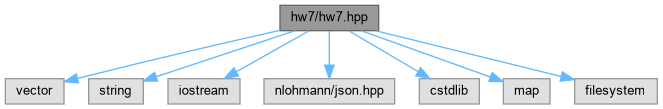
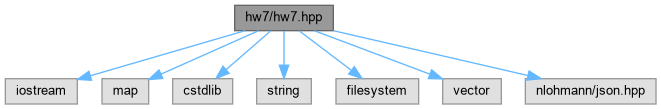
Test combined header.

Changed region(s): [[0.0, 0.0275, 0.9985, 0.9633], [0.4236, 0.578, 0.4539, 0.7156]]

diff --git a/docs/html/peroxide_8cpp.html b/docs/html/peroxide_8cpp.html
@@ -87,62 +87,62 @@ Include dependency graph for peroxide.cpp:</div>
 <div class="dyncontent">
 <div class="center"><img src="peroxide_8cpp__incl.png" border="0" usemap="#aapps_2peroxide_8cpp" alt=""/></div>
 <map name="aapps_2peroxide_8cpp" id="aapps_2peroxide_8cpp">
-<area shape="rect" title=" " alt="" coords="622,5,750,31"/>
-<area shape="rect" href="sysinc_8hpp.html" title=" " alt="" coords="1086,79,1171,104"/>
-<area shape="poly" title=" " alt="" coords="751,27,1072,78,1072,84,750,32"/>
-<area shape="rect" href="hw7_8hpp.html" title=" " alt="" coords="301,79,372,104"/>
+<area shape="rect" title=" " alt="" coords="621,5,749,31"/>
+<area shape="rect" href="sysinc_8hpp.html" title=" " alt="" coords="1085,79,1171,104"/>
+<area shape="poly" title=" " alt="" coords="750,27,1072,78,1071,84,749,32"/>
+<area shape="rect" href="hw7_8hpp.html" title=" " alt="" coords="301,79,371,104"/>
 <area shape="poly" title=" " alt="" coords="630,33,386,83,385,77,629,28"/>
-<area shape="rect" title=" " alt="" coords="160,159,220,185"/>
-<area shape="poly" title=" " alt="" coords="1086,96,910,101,663,112,414,129,311,141,233,155,226,157,224,152,232,149,310,135,413,124,663,106,910,96,1086,91"/>
-<area shape="rect" title=" " alt="" coords="1879,159,1947,185"/>
-<area shape="poly" title=" " alt="" coords="1172,92,1521,111,1722,128,1805,138,1868,149,1877,152,1875,157,1867,155,1804,143,1721,133,1520,116,1171,97"/>
-<area shape="rect" title=" " alt="" coords="1971,159,2046,185"/>
-<area shape="poly" title=" " alt="" coords="1172,91,1564,110,1793,127,1888,137,1960,149,1970,152,1969,157,1959,155,1887,143,1792,132,1563,115,1171,97"/>
-<area shape="rect" title=" " alt="" coords="2070,159,2131,185"/>
-<area shape="poly" title=" " alt="" coords="1172,91,1353,95,1610,106,1870,123,1978,135,2059,149,2067,152,2065,157,2057,155,1977,140,1869,128,1610,111,1353,101,1172,96"/>
-<area shape="rect" title=" " alt="" coords="245,159,327,185"/>
-<area shape="poly" title=" " alt="" coords="1086,95,958,95,773,102,558,120,447,135,340,155,328,158,326,152,339,149,447,130,557,115,773,97,958,90,1086,89"/>
-<area shape="rect" title=" " alt="" coords="2155,159,2222,185"/>
-<area shape="poly" title=" " alt="" coords="1171,91,1368,95,1649,105,1935,122,2054,135,2144,149,2153,152,2152,157,2143,155,2054,140,1935,128,1649,110,1367,100,1171,96"/>
-<area shape="rect" title=" " alt="" coords="2246,159,2313,185"/>
-<area shape="poly" title=" " alt="" coords="1172,90,1383,94,1692,103,2005,121,2136,133,2235,149,2244,152,2242,157,2233,155,2136,139,2005,126,1691,108,1383,99,1172,96"/>
+<area shape="rect" title=" " alt="" coords="159,159,219,185"/>
+<area shape="poly" title=" " alt="" coords="1085,96,909,101,662,112,413,129,310,141,233,155,225,157,223,152,231,149,309,135,413,124,662,106,909,96,1085,91"/>
+<area shape="rect" title=" " alt="" coords="1878,159,1946,185"/>
+<area shape="poly" title=" " alt="" coords="1171,92,1520,111,1721,128,1804,138,1867,149,1876,152,1875,157,1866,155,1804,143,1720,133,1520,116,1171,97"/>
+<area shape="rect" title=" " alt="" coords="1971,159,2045,185"/>
+<area shape="poly" title=" " alt="" coords="1171,91,1563,110,1792,127,1887,137,1959,149,1970,152,1968,157,1958,155,1887,143,1792,132,1563,115,1171,97"/>
+<area shape="rect" title=" " alt="" coords="2069,159,2131,185"/>
+<area shape="poly" title=" " alt="" coords="1171,91,1353,95,1610,106,1869,123,1977,135,2058,149,2066,152,2064,157,2057,155,1976,140,1869,128,1609,111,1352,101,1171,96"/>
+<area shape="rect" title=" " alt="" coords="244,159,327,185"/>
+<area shape="poly" title=" " alt="" coords="1085,95,957,95,772,102,557,120,447,135,339,155,327,158,326,152,338,149,446,130,556,115,772,97,957,90,1085,89"/>
+<area shape="rect" title=" " alt="" coords="2155,159,2221,185"/>
+<area shape="poly" title=" " alt="" coords="1171,91,1367,95,1649,105,1935,122,2054,135,2143,149,2152,152,2151,157,2142,155,2053,140,1934,128,1649,110,1367,100,1171,96"/>
+<area shape="rect" title=" " alt="" coords="2245,159,2312,185"/>
+<area shape="poly" title=" " alt="" coords="1171,90,1383,94,1691,103,2005,121,2136,133,2234,149,2243,152,2242,157,2233,155,2135,139,2004,126,1691,108,1382,99,1171,96"/>
 <area shape="rect" title=" " alt="" coords="351,159,423,185"/>
-<area shape="poly" title=" " alt="" coords="1086,95,972,96,811,104,625,122,530,136,437,155,427,157,426,152,436,149,529,131,624,117,810,99,972,91,1086,90"/>
-<area shape="rect" title=" " alt="" coords="682,159,751,185"/>
-<area shape="poly" title=" " alt="" coords="1086,99,942,118,854,134,765,155,757,157,755,152,764,149,853,129,941,113,1085,94"/>
-<area shape="rect" title=" " alt="" coords="776,159,831,185"/>
-<area shape="poly" title=" " alt="" coords="1086,101,975,120,909,136,844,155,839,157,837,152,843,149,908,130,974,115,1085,96"/>
-<area shape="rect" title=" " alt="" coords="855,159,925,185"/>
-<area shape="poly" title=" " alt="" coords="1090,107,939,155,932,157,930,152,937,149,1089,101"/>
-<area shape="rect" title=" " alt="" coords="949,159,1028,185"/>
-<area shape="poly" title=" " alt="" coords="1109,107,1023,155,1020,150,1107,102"/>
-<area shape="rect" title=" " alt="" coords="448,159,503,185"/>
-<area shape="poly" title=" " alt="" coords="1086,95,983,96,841,103,678,121,596,136,516,155,510,156,509,151,515,149,595,130,678,116,840,98,983,90,1086,89"/>
-<area shape="rect" title=" " alt="" coords="1052,159,1120,185"/>
-<area shape="poly" title=" " alt="" coords="1125,105,1101,149,1096,146,1120,103"/>
-<area shape="rect" title=" " alt="" coords="1145,159,1198,185"/>
-<area shape="poly" title=" " alt="" coords="1137,103,1161,146,1156,149,1133,105"/>
-<area shape="rect" title=" " alt="" coords="527,159,658,185"/>
-<area shape="poly" title=" " alt="" coords="1086,99,904,119,670,155,650,159,649,154,670,149,904,114,1085,94"/>
-<area shape="rect" title=" " alt="" coords="1222,159,1305,185"/>
-<area shape="poly" title=" " alt="" coords="1150,102,1233,150,1230,155,1147,106"/>
-<area shape="rect" title=" " alt="" coords="1329,159,1443,185"/>
-<area shape="poly" title=" " alt="" coords="1167,101,1336,153,1334,158,1165,107"/>
-<area shape="rect" title=" " alt="" coords="1467,152,1601,192"/>
-<area shape="poly" title=" " alt="" coords="1172,97,1454,149,1453,154,1171,102"/>
-<area shape="rect" title=" " alt="" coords="1626,152,1757,192"/>
-<area shape="poly" title=" " alt="" coords="1172,94,1360,113,1484,129,1613,149,1612,155,1483,134,1359,118,1171,99"/>
-<area shape="rect" title=" " alt="" coords="1781,159,1855,185"/>
-<area shape="poly" title=" " alt="" coords="1172,90,1278,93,1427,101,1597,119,1684,132,1769,149,1780,152,1778,157,1768,155,1684,137,1597,124,1426,106,1278,98,1172,95"/>
-<area shape="poly" title=" " alt="" coords="316,107,225,155,223,150,314,102"/>
-<area shape="poly" title=" " alt="" coords="331,106,303,149,299,146,327,103"/>
-<area shape="poly" title=" " alt="" coords="346,103,375,146,370,149,342,106"/>
-<area shape="poly" title=" " alt="" coords="358,102,444,150,442,155,356,107"/>
-<area shape="poly" title=" " alt="" coords="373,101,543,153,542,158,371,106"/>
-<area shape="rect" title=" " alt="" coords="77,159,135,185"/>
-<area shape="poly" title=" " alt="" coords="302,105,150,155,145,156,143,151,148,149,300,100"/>
-<area shape="rect" title=" " alt="" coords="5,159,52,185"/>
-<area shape="poly" title=" " alt="" coords="302,100,194,119,130,135,66,155,62,156,60,151,64,149,128,129,193,114,301,95"/>
+<area shape="poly" title=" " alt="" coords="1085,95,972,96,810,104,624,122,529,136,437,155,426,157,425,152,435,149,528,131,623,117,810,99,971,91,1085,90"/>
+<area shape="rect" title=" " alt="" coords="681,159,751,185"/>
+<area shape="poly" title=" " alt="" coords="1085,99,942,118,853,134,765,155,756,157,754,152,763,149,852,129,941,113,1084,94"/>
+<area shape="rect" title=" " alt="" coords="775,159,830,185"/>
+<area shape="poly" title=" " alt="" coords="1086,101,975,120,909,136,843,155,838,157,836,152,842,149,907,130,974,115,1085,96"/>
+<area shape="rect" title=" " alt="" coords="855,159,924,185"/>
+<area shape="poly" title=" " alt="" coords="1089,107,938,155,931,157,930,152,936,149,1088,101"/>
+<area shape="rect" title=" " alt="" coords="949,159,1027,185"/>
+<area shape="poly" title=" " alt="" coords="1109,107,1022,155,1019,150,1106,102"/>
+<area shape="rect" title=" " alt="" coords="447,159,502,185"/>
+<area shape="poly" title=" " alt="" coords="1085,95,983,96,840,103,678,121,595,136,515,155,509,156,508,151,514,149,594,130,677,116,840,98,982,90,1085,89"/>
+<area shape="rect" title=" " alt="" coords="1051,159,1119,185"/>
+<area shape="poly" title=" " alt="" coords="1124,105,1100,149,1096,146,1119,103"/>
+<area shape="rect" title=" " alt="" coords="1144,159,1197,185"/>
+<area shape="poly" title=" " alt="" coords="1137,103,1160,146,1156,149,1132,105"/>
+<area shape="rect" title=" " alt="" coords="527,159,657,185"/>
+<area shape="poly" title=" " alt="" coords="1085,99,904,119,670,155,649,159,648,154,669,149,903,114,1084,94"/>
+<area shape="rect" title=" " alt="" coords="1221,159,1304,185"/>
+<area shape="poly" title=" " alt="" coords="1149,102,1232,150,1230,155,1147,106"/>
+<area shape="rect" title=" " alt="" coords="1329,159,1442,185"/>
+<area shape="poly" title=" " alt="" coords="1166,101,1335,153,1334,158,1165,107"/>
+<area shape="rect" title=" " alt="" coords="1466,152,1601,192"/>
+<area shape="poly" title=" " alt="" coords="1171,97,1453,149,1452,154,1170,102"/>
+<area shape="rect" title=" " alt="" coords="1625,152,1756,192"/>
+<area shape="poly" title=" " alt="" coords="1171,94,1359,113,1483,129,1612,149,1611,155,1482,134,1358,118,1171,99"/>
+<area shape="rect" title=" " alt="" coords="1781,159,1854,185"/>
+<area shape="poly" title=" " alt="" coords="1171,90,1277,93,1426,101,1597,119,1684,132,1769,149,1779,152,1778,157,1767,155,1683,137,1596,124,1426,106,1277,98,1171,95"/>
+<area shape="poly" title=" " alt="" coords="316,107,224,155,222,150,313,102"/>
+<area shape="poly" title=" " alt="" coords="331,106,303,149,298,146,326,103"/>
+<area shape="poly" title=" " alt="" coords="346,103,374,146,369,149,341,106"/>
+<area shape="poly" title=" " alt="" coords="358,102,444,150,441,155,355,107"/>
+<area shape="poly" title=" " alt="" coords="372,101,543,153,541,158,371,106"/>
+<area shape="rect" title=" " alt="" coords="89,159,135,185"/>
+<area shape="poly" title=" " alt="" coords="301,104,230,125,149,154,146,156,144,151,147,150,228,120,300,99"/>
+<area shape="rect" title=" " alt="" coords="5,159,64,185"/>
+<area shape="poly" title=" " alt="" coords="301,101,199,121,77,155,71,157,69,152,75,149,198,116,300,96"/>
 </map>
 </div>
 </div><table class="memberdecls">

diff --git a/docs/html/hw7_8hpp_source.html b/docs/html/hw7_8hpp_source.html
@@ -83,15 +83,15 @@ $(document).ready(function() { init_codefold(0); });
 </div><!--header-->
 <div class="contents">
 <a href="hw7_8hpp.html">Go to the documentation of this file.</a><div class="fragment"><div class="line"><a id="l00001" name="l00001"></a><span class="lineno">    1</span> </div>
-<div class="line"><a id="l00007" name="l00007"></a><span class="lineno">    7</span><span class="comment">// # System headers</span></div>
-<div class="line"><a id="l00008" name="l00008"></a><span class="lineno">    8</span> </div>
-<div class="line"><a id="l00009" name="l00009"></a><span class="lineno">    9</span><span class="preprocessor">#include &lt;vector&gt;</span></div>
-<div class="line"><a id="l00010" name="l00010"></a><span class="lineno">   10</span><span class="preprocessor">#include &lt;string&gt;</span></div>
-<div class="line"><a id="l00011" name="l00011"></a><span class="lineno">   11</span><span class="preprocessor">#include &lt;iostream&gt;</span>   <span class="comment">// cin &amp; cout</span></div>
-<div class="line"><a id="l00012" name="l00012"></a><span class="lineno">   12</span><span class="preprocessor">#include &lt;nlohmann/json.hpp&gt;</span> <span class="comment">// JSON -&gt; struct conversion</span></div>
-<div class="line"><a id="l00013" name="l00013"></a><span class="lineno">   13</span><span class="preprocessor">#include &lt;cstdlib&gt;</span></div>
-<div class="line"><a id="l00014" name="l00014"></a><span class="lineno">   14</span><span class="preprocessor">#include &lt;map&gt;</span></div>
-<div class="line"><a id="l00015" name="l00015"></a><span class="lineno">   15</span><span class="preprocessor">#include &lt;filesystem&gt;</span></div>
+<div class="line"><a id="l00007" name="l00007"></a><span class="lineno">    7</span>    <span class="comment">// # System headers</span></div>
+<div class="line"><a id="l00008" name="l00008"></a><span class="lineno">    8</span>    </div>
+<div class="line"><a id="l00009" name="l00009"></a><span class="lineno">    9</span><span class="preprocessor">    #include &lt;iostream&gt;</span>   <span class="comment">// cin &amp; cout</span></div>
+<div class="line"><a id="l00010" name="l00010"></a><span class="lineno">   10</span><span class="preprocessor">#include &lt;map&gt;</span></div>
+<div class="line"><a id="l00011" name="l00011"></a><span class="lineno">   11</span><span class="preprocessor">#include &lt;cstdlib&gt;</span></div>
+<div class="line"><a id="l00012" name="l00012"></a><span class="lineno">   12</span><span class="preprocessor">#include &lt;string&gt;</span></div>
+<div class="line"><a id="l00013" name="l00013"></a><span class="lineno">   13</span><span class="preprocessor">#include &lt;filesystem&gt;</span></div>
+<div class="line"><a id="l00014" name="l00014"></a><span class="lineno">   14</span><span class="preprocessor">#include &lt;vector&gt;</span></div>
+<div class="line"><a id="l00015" name="l00015"></a><span class="lineno">   15</span><span class="preprocessor">#include &lt;nlohmann/json.hpp&gt;</span> <span class="comment">// JSON -&gt; struct conversion</span></div>
 <div class="line"><a id="l00016" name="l00016"></a><span class="lineno">   16</span> </div>
 <div class="line"><a id="l00017" name="l00017"></a><span class="lineno">   17</span> </div>
 <div class="line"><a id="l00018" name="l00018"></a><span class="lineno"><a class="line" href="hw7_8hpp.html#a0c33b494a68ce28497e7ce8e5e95feff">   18</a></span><span class="preprocessor">#define CONST inline const</span></div>

diff --git a/docs/html/hw7_8hpp.html b/docs/html/hw7_8hpp.html
@@ -84,33 +84,33 @@ $(function() {
   <div class="headertitle"><div class="title">hw7.hpp File Reference</div></div>
 </div><!--header-->
 <div class="contents">
-<div class="textblock"><code>#include &lt;vector&gt;</code><br />
-<code>#include &lt;string&gt;</code><br />
-<code>#include &lt;iostream&gt;</code><br />
-<code>#include &lt;nlohmann/json.hpp&gt;</code><br />
-<code>#include &lt;cstdlib&gt;</code><br />
+<div class="textblock"><code>#include &lt;iostream&gt;</code><br />
 <code>#include &lt;map&gt;</code><br />
+<code>#include &lt;cstdlib&gt;</code><br />
+<code>#include &lt;string&gt;</code><br />
 <code>#include &lt;filesystem&gt;</code><br />
+<code>#include &lt;vector&gt;</code><br />
+<code>#include &lt;nlohmann/json.hpp&gt;</code><br />
 </div><div class="textblock"><div class="dynheader">
 Include dependency graph for hw7.hpp:</div>
 <div class="dyncontent">
 <div class="center"><img src="hw7_8hpp__incl.png" border="0" usemap="#ahw7_2hw7_8hpp" alt=""/></div>
 <map name="ahw7_2hw7_8hpp" id="ahw7_2hw7_8hpp">
-<area shape="rect" title=" " alt="" coords="280,5,379,31"/>
-<area shape="rect" title=" " alt="" coords="5,79,64,104"/>
-<area shape="poly" title=" " alt="" coords="280,33,78,81,77,76,279,28"/>
-<area shape="rect" title=" " alt="" coords="89,79,143,104"/>
-<area shape="poly" title=" " alt="" coords="296,33,157,79,155,74,294,28"/>
-<area shape="rect" title=" " alt="" coords="168,79,240,104"/>
-<area shape="poly" title=" " alt="" coords="311,33,238,74,235,69,308,28"/>
-<area shape="rect" title=" " alt="" coords="264,79,395,104"/>
-<area shape="poly" title=" " alt="" coords="332,31,332,65,327,65,327,31"/>
-<area shape="rect" title=" " alt="" coords="419,79,479,104"/>
-<area shape="poly" title=" " alt="" coords="350,28,419,69,416,74,347,33"/>
-<area shape="rect" title=" " alt="" coords="503,79,550,104"/>
-<area shape="poly" title=" " alt="" coords="362,28,491,75,490,80,360,33"/>
-<area shape="rect" title=" " alt="" coords="575,79,657,104"/>
-<area shape="poly" title=" " alt="" coords="376,28,562,74,561,79,375,33"/>
+<area shape="rect" title=" " alt="" coords="235,5,333,31"/>
+<area shape="rect" title=" " alt="" coords="5,79,77,104"/>
+<area shape="poly" title=" " alt="" coords="246,33,91,78,90,73,244,28"/>
+<area shape="rect" title=" " alt="" coords="102,79,149,104"/>
+<area shape="poly" title=" " alt="" coords="260,33,162,77,160,72,257,28"/>
+<area shape="rect" title=" " alt="" coords="173,79,233,104"/>
+<area shape="poly" title=" " alt="" coords="273,33,228,72,224,68,269,29"/>
+<area shape="rect" title=" " alt="" coords="257,79,311,104"/>
+<area shape="poly" title=" " alt="" coords="287,31,287,65,281,65,281,31"/>
+<area shape="rect" title=" " alt="" coords="336,79,419,104"/>
+<area shape="poly" title=" " alt="" coords="301,29,353,68,350,72,297,33"/>
+<area shape="rect" title=" " alt="" coords="443,79,501,104"/>
+<area shape="poly" title=" " alt="" coords="315,28,431,72,429,77,313,33"/>
+<area shape="rect" title=" " alt="" coords="525,79,656,104"/>
+<area shape="poly" title=" " alt="" coords="334,28,528,73,527,78,333,33"/>
 </map>
 </div>
 </div><div class="textblock"><div class="dynheader">

diff --git a/hw7/hw7.hpp b/hw7/hw7.hpp
@@ -1,18 +1,18 @@
 /**
- * @file hw7.hpp
- *
- * Single header for `hw7`.
- */
-
-// # System headers
-
-#include <vector>
-#include <string>
-#include <iostream>   // cin & cout
-#include <nlohmann/json.hpp> // JSON -> struct conversion
-#include <cstdlib>
+     * @file hw7.hpp
+     *
+     * Single header for `hw7`.
+     */
+    
+    // # System headers
+    
+    #include <iostream>   // cin & cout
 #include <map>
+#include <cstdlib>
+#include <string>
 #include <filesystem>
+#include <vector>
+#include <nlohmann/json.hpp> // JSON -> struct conversion
 
 
 #define CONST inline const

diff --git a/tools/build.py b/tools/build.py
@@ -13,6 +13,7 @@ import shutil
 import subprocess
 
 # Packages
+from grep import grep
 import nbformat
 
 # Local modules
